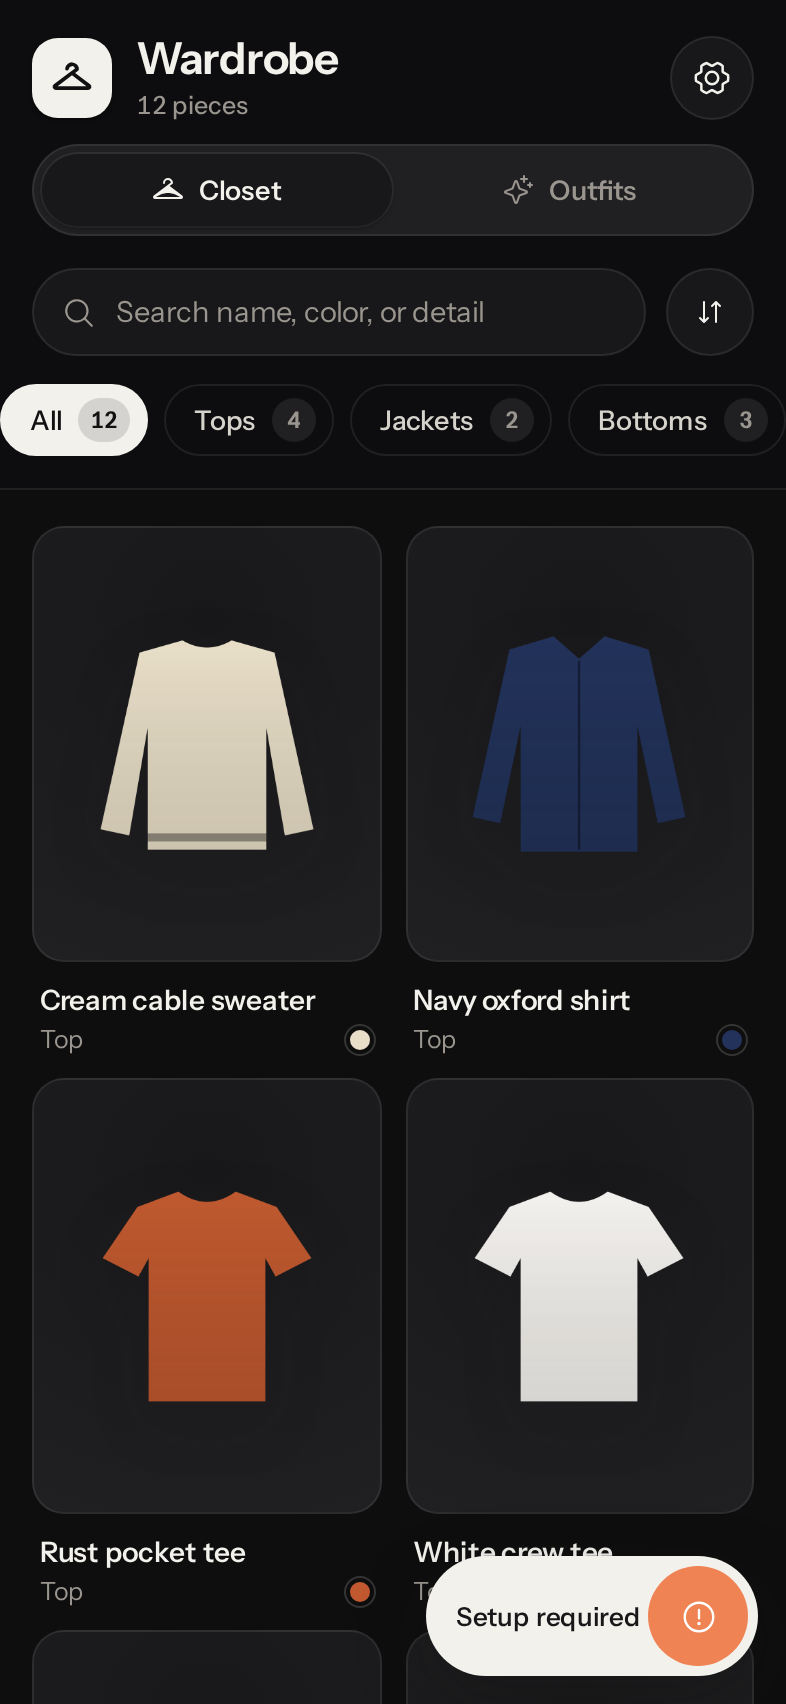
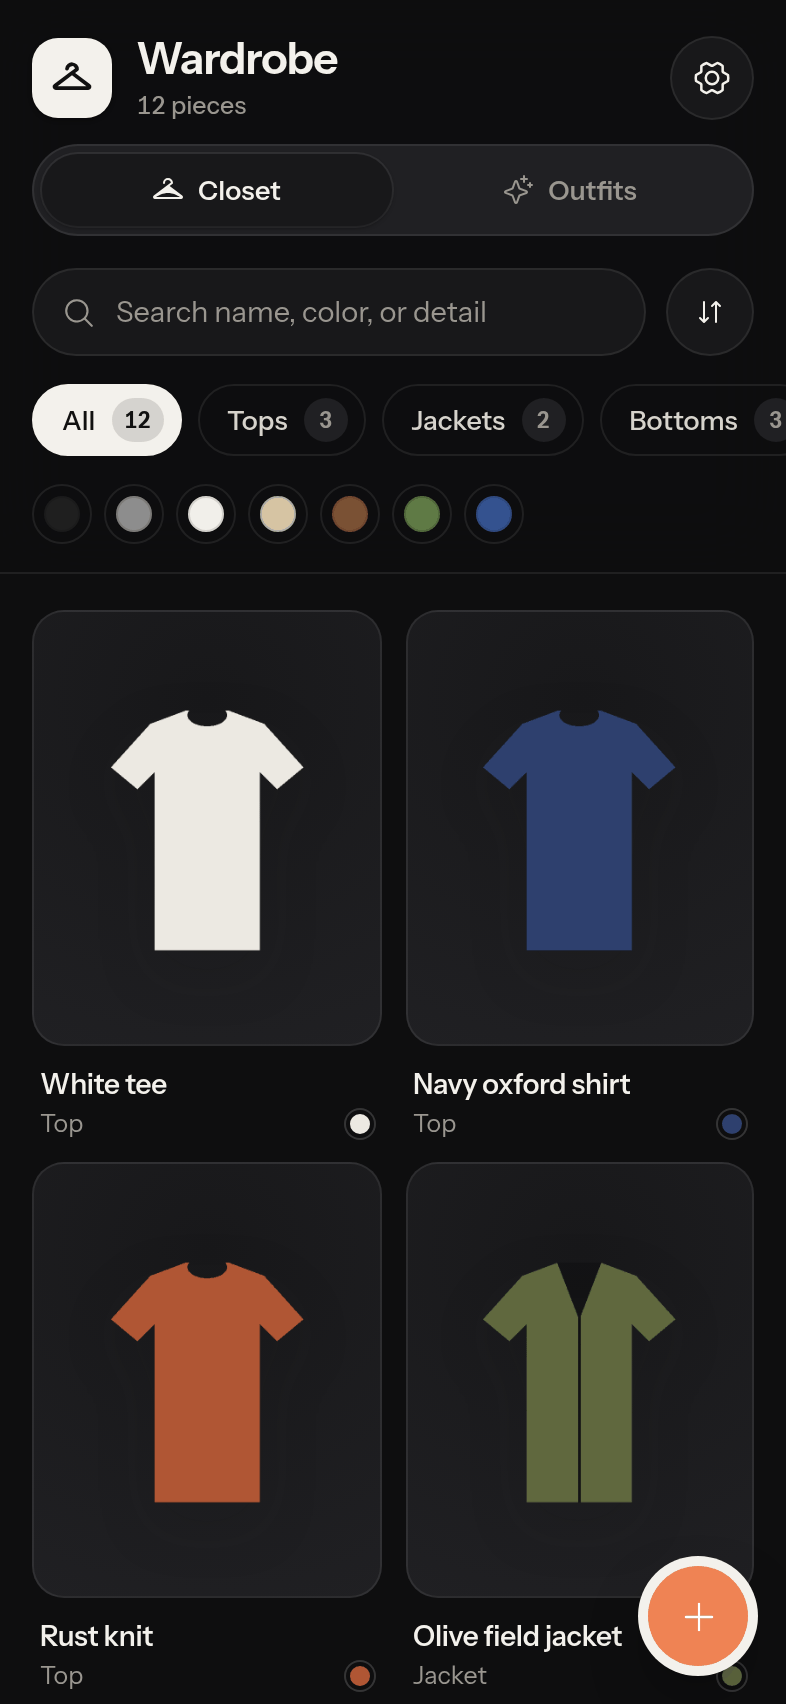
Wardrobe 2.1: README, new screenshots and code comments
- README: What's new in 2.1, outfit builder and color filter, new
  screenshots (closet, color filter, outfit, builder, phone outfits).
- Comments on the new outfit routes and components.
- Chips snap to the padded edge on phones, so the first one shows fully.

diff --git a/src/Outfits.jsx b/src/Outfits.jsx
@@ -3,6 +3,9 @@ import { Check, CoatHanger, MagicWand, PencilSimple, Plus, SpinnerGap, Trash, X 
 import { apiFetch, assetUrl } from "./api.js";
 import "./outfits.css";
 
+// The Outfits tab: outfits Claude styles, outfits built by hand, an occasion
+// filter, and a viewer where an outfit can be edited or deleted.
+
 const PART_ORDER = ["wholebody_up", "upperbody", "lowerbody", "shoes", "accessories_up"];
 const PART_LABELS = {
   wholebody_up: "Jackets",
@@ -90,6 +93,7 @@ function StyleForm({ busy, onStyle, onCompose, canCompose }) {
   );
 }
 
+// The pieces inside an open outfit. Tapping one opens it in the item editor.
 function PieceList({ pieces, onSelect }) {
   return (
     <div className="outfit-viewer__pieces">
@@ -123,6 +127,7 @@ function OutfitFields({ draft, setDraft }) {
   );
 }
 
+// "Build your own": pick two or more pieces, then save them as an outfit.
 function OutfitBuilder({ items, onClose, onCreated }) {
   const [draft, setDraft] = useState({ name: "", occasion: "", reason: "" });
   const [selectedIds, setSelectedIds] = useState([]);

diff --git a/worker/index.js b/worker/index.js
@@ -251,6 +251,7 @@ async function handleApi(request, env) {
   if (pathname === "/api/import/config" && method === "GET") return json(200, await setupStatus(env));
   if (pathname === "/api/import/outfits" && method === "GET") return json(200, await listOutfits(env));
 
+  // Same rules as the local server: see normalizeManualOutfit and applyOutfitEdit in shared/core.mjs.
   if (pathname === "/api/import/outfits" && method === "POST") {
     const created = normalizeManualOutfit(await readJson(request, 64 * 1024), await listItems(env));
     await saveOutfit(env, created);

diff --git a/src/styles.css b/src/styles.css
@@ -290,6 +290,8 @@ button { -webkit-user-select: none; user-select: none; }
   scrollbar-width: none;
   -webkit-overflow-scrolling: touch;
   scroll-snap-type: x proximity;
+  /* Snap chips to the padded edge, not the screen edge, so the first chip is not cut off. */
+  scroll-padding-inline: var(--page-x);
 }
 .category-nav::-webkit-scrollbar { display: none; }
 

diff --git a/README.md b/README.md
@@ -4,6 +4,7 @@
 
 Your closet on the web and on your iPhone. Snap a photo, and Claude finds each piece, cuts it out, and styles outfits from what you own.
 
+[![Version 2.1.0](https://img.shields.io/badge/version-2.1.0-191919?style=flat-square)](CHANGELOG.md)
 [![License: MIT](https://img.shields.io/badge/license-MIT-191919?style=flat-square)](LICENSE)
 [![Node 22+](https://img.shields.io/badge/node-22%2B-191919?style=flat-square)](package.json)
 [![Claude](https://img.shields.io/badge/AI-Claude-191919?style=flat-square)](https://www.anthropic.com/claude)
@@ -18,6 +19,7 @@ Based on [tandpfun/wardrobe](https://github.com/tandpfun/wardrobe) ([original po
 
 <sub>A real closet from the original project. The other screenshots below use a small drawn sample closet.</sub>
 
+**[What's new](#whats-new-in-21)** ·
 **[What it does](#what-it-does)** ·
 **[Screenshots](#screenshots)** ·
 **[Quick start](#quick-start-on-your-computer)** ·
@@ -26,41 +28,62 @@ Based on [tandpfun/wardrobe](https://github.com/tandpfun/wardrobe) ([original po
 **[iPhone app](#iphone-app)** ·
 **[Settings](#settings)**
 
+## What's new in 2.1
+
+Version 2.1 brings together the best of two other builds of this app with our own work. See the [changelog](CHANGELOG.md) for every change.
+
+- **Build outfits yourself.** Pick pieces, give the look a name, occasions and a note, and save it next to the ones Claude styles.
+- **Edit and filter outfits.** Rename an outfit, change its occasions or note, filter the list by occasion, and tap any piece to open it.
+- **Filter by color.** Tap a color dot to see only blue, beige or black pieces. Search understands color words too, so "blue" finds navy.
+- **New look with dark mode**, a settings sheet, search and sort, from the 2.0 redesign.
+- **Run it on a Synology NAS** with Docker, with a step-by-step guide.
+
 ## What it does
 
 - **Add clothes from a photo.** Drop, paste, choose or take a picture of one piece or a whole outfit. Claude finds every garment and suggests a name, category, colors and tags.
 - **Clean cutouts.** Each piece is cut out of the real photo with background removal, so it looks like your actual item. You check the crop and the cutout before anything is saved.
-- **Style outfits.** Press **Style new outfits** and Claude builds looks from your closet, names them, and says why they work. Add a note like "cool weekend in the city" to steer it. Or build one yourself from your pieces, and filter or edit outfits by occasion.
+- **Style outfits.** Press **Style new outfits** and Claude builds looks from your closet, names them, and says why they work. Add a note like "cool weekend in the city", or tap an idea such as "Dinner out", to steer it.
+- **Build your own outfits.** Press **Build your own**, pick two or more pieces, and save the look. Edit any outfit's name, occasions and note later, and filter outfits by occasion.
 - **Edit and sort.** Filter by tops, jackets, bottoms, accessories and shoes. Change names, colors and tags at any time.
-- **Search and sort.** Find pieces by name, tag, category or colour, and sort by category, newest, colour or name.
+- **Search, filter and sort.** Find pieces by name, tag, category or color word, tap a color dot to filter, and sort by category, newest, color or name.
 - **Light and dark.** A clean, modern look that follows your system theme, on desktop and phone.
 - **Self-host it.** Run it as a container on your Synology NAS (or any Docker host) so all photos and data stay at home, or on Cloudflare. The web app, phone browsers and the iPhone app share one closet.
 
 ## Screenshots
 
-| Your closet | Edit a piece |
+| Your closet | Filter by color |
 | --- | --- |
-| ![Gallery](docs/screenshots/gallery.png) | ![Editor](docs/screenshots/editor.png) |
+| ![Closet](docs/screenshots/gallery.png) | ![Color filter](docs/screenshots/color-filter.png) |
 
-| Outfits styled by Claude | Server & settings |
+| Edit a piece | Server & settings |
 | --- | --- |
-| ![Outfits](docs/screenshots/outfits.png) | ![Settings](docs/screenshots/settings.png) |
+| ![Editor](docs/screenshots/editor.png) | ![Settings](docs/screenshots/settings.png) |
+
+**Outfits.** Claude styles looks from your closet. Filter them by occasion, open one to see its pieces, or edit its name, occasions and note.
+
+| Outfits | One outfit |
+| --- | --- |
+| ![Outfits](docs/screenshots/outfits.png) | ![Outfit](docs/screenshots/outfit.png) |
+
+**Build your own.** Pick the pieces and the collage fills in as you go.
+
+![Build an outfit](docs/screenshots/outfit-builder.png)
 
 **Review before saving.** After Claude finds a piece and the background is removed, you check the details, then approve, reject, or keep the background.
 
 ![Import review](docs/screenshots/import-review.png)
 
-**On the phone.** The closet in dark mode, and the iPhone app's connect screen.
+**On the phone.** The closet in dark mode, outfits, and the iPhone app's connect screen.
 
-<p><img src="docs/screenshots/phone-dark.png" width="280"> <img src="docs/screenshots/phone-connect.png" width="280"></p>
+<p><img src="docs/screenshots/phone-dark.png" width="250"> <img src="docs/screenshots/phone-outfits.png" width="250"> <img src="docs/screenshots/phone-connect.png" width="250"></p>
 
 ## Quick start (on your computer)
 
 You need Node 22 or newer and an Anthropic API key from [console.anthropic.com](https://console.anthropic.com/settings/keys).
 
 ```bash
-git clone https://github.com/njarrar/wardrobe-web-ios.git
-cd wardrobe-web-ios
+git clone https://github.com/njarrar/wardrobe-najeeb.git
+cd wardrobe-najeeb
 npm install
 cp .env.example .env     # then put your key in ANTHROPIC_API_KEY
 npm run dev              # http://localhost:5173
@@ -102,7 +125,7 @@ For the iPhone app away from home, put the NAS behind HTTPS with the DSM reverse
 
 Step-by-step guide, reverse proxy, backups and troubleshooting: **[docs/synology.md](docs/synology.md)**.
 
-Health check (no token needed): `GET /api/health`.
+Health check (no token needed): `GET /api/health` answers `{ ok, version, protected }`. It works the same with `npm start`, `npm run dev` and on Cloudflare.
 
 ## Run it on Cloudflare
 
@@ -165,8 +188,9 @@ The import skill finds each garment, cuts it out, checks every cutout, then writ
 
 | Part | Where |
 | --- | --- |
-| Web app (React 19 + Vite) | `src/` |
+| Web app (React 19 + Vite) | `src/` (closet in `App.jsx`, outfits in `Outfits.jsx`, settings in `SettingsSheet.jsx`) |
 | Local server and API | `scripts/import-job-api.mjs`, `scripts/serve.mjs` |
+| Rules shared by the server and the Worker (item edits, outfits) | `shared/core.mjs` |
 | Cloudflare Worker (R2, D1, Queue, Images) | `worker/`, `wrangler.jsonc` |
 | Claude calls (finding clothes, styling outfits) | `shared/claude.mjs` |
 | iPhone app (Capacitor) | `ios/` |

diff --git a/CHANGELOG.md b/CHANGELOG.md
@@ -15,6 +15,10 @@
 - Settings shows whether the server asks for a token, as the server reports it, not whether this device saved one.
 - `/api/health` now also answers in `npm run dev` and on the Cloudflare Worker, and Worker imports record `addedAt`.
 - The page no longer scrolls behind an open outfit, and the import button hides while a dialog is open.
+- Category and occasion chips no longer snap under the screen edge on phones.
+
+### Docs
+- README rewritten for 2.1 with new screenshots: color filter, outfit, outfit builder and phone outfits.
 
 ## 2.0.0 — Modern redesign and self-hosting
 
